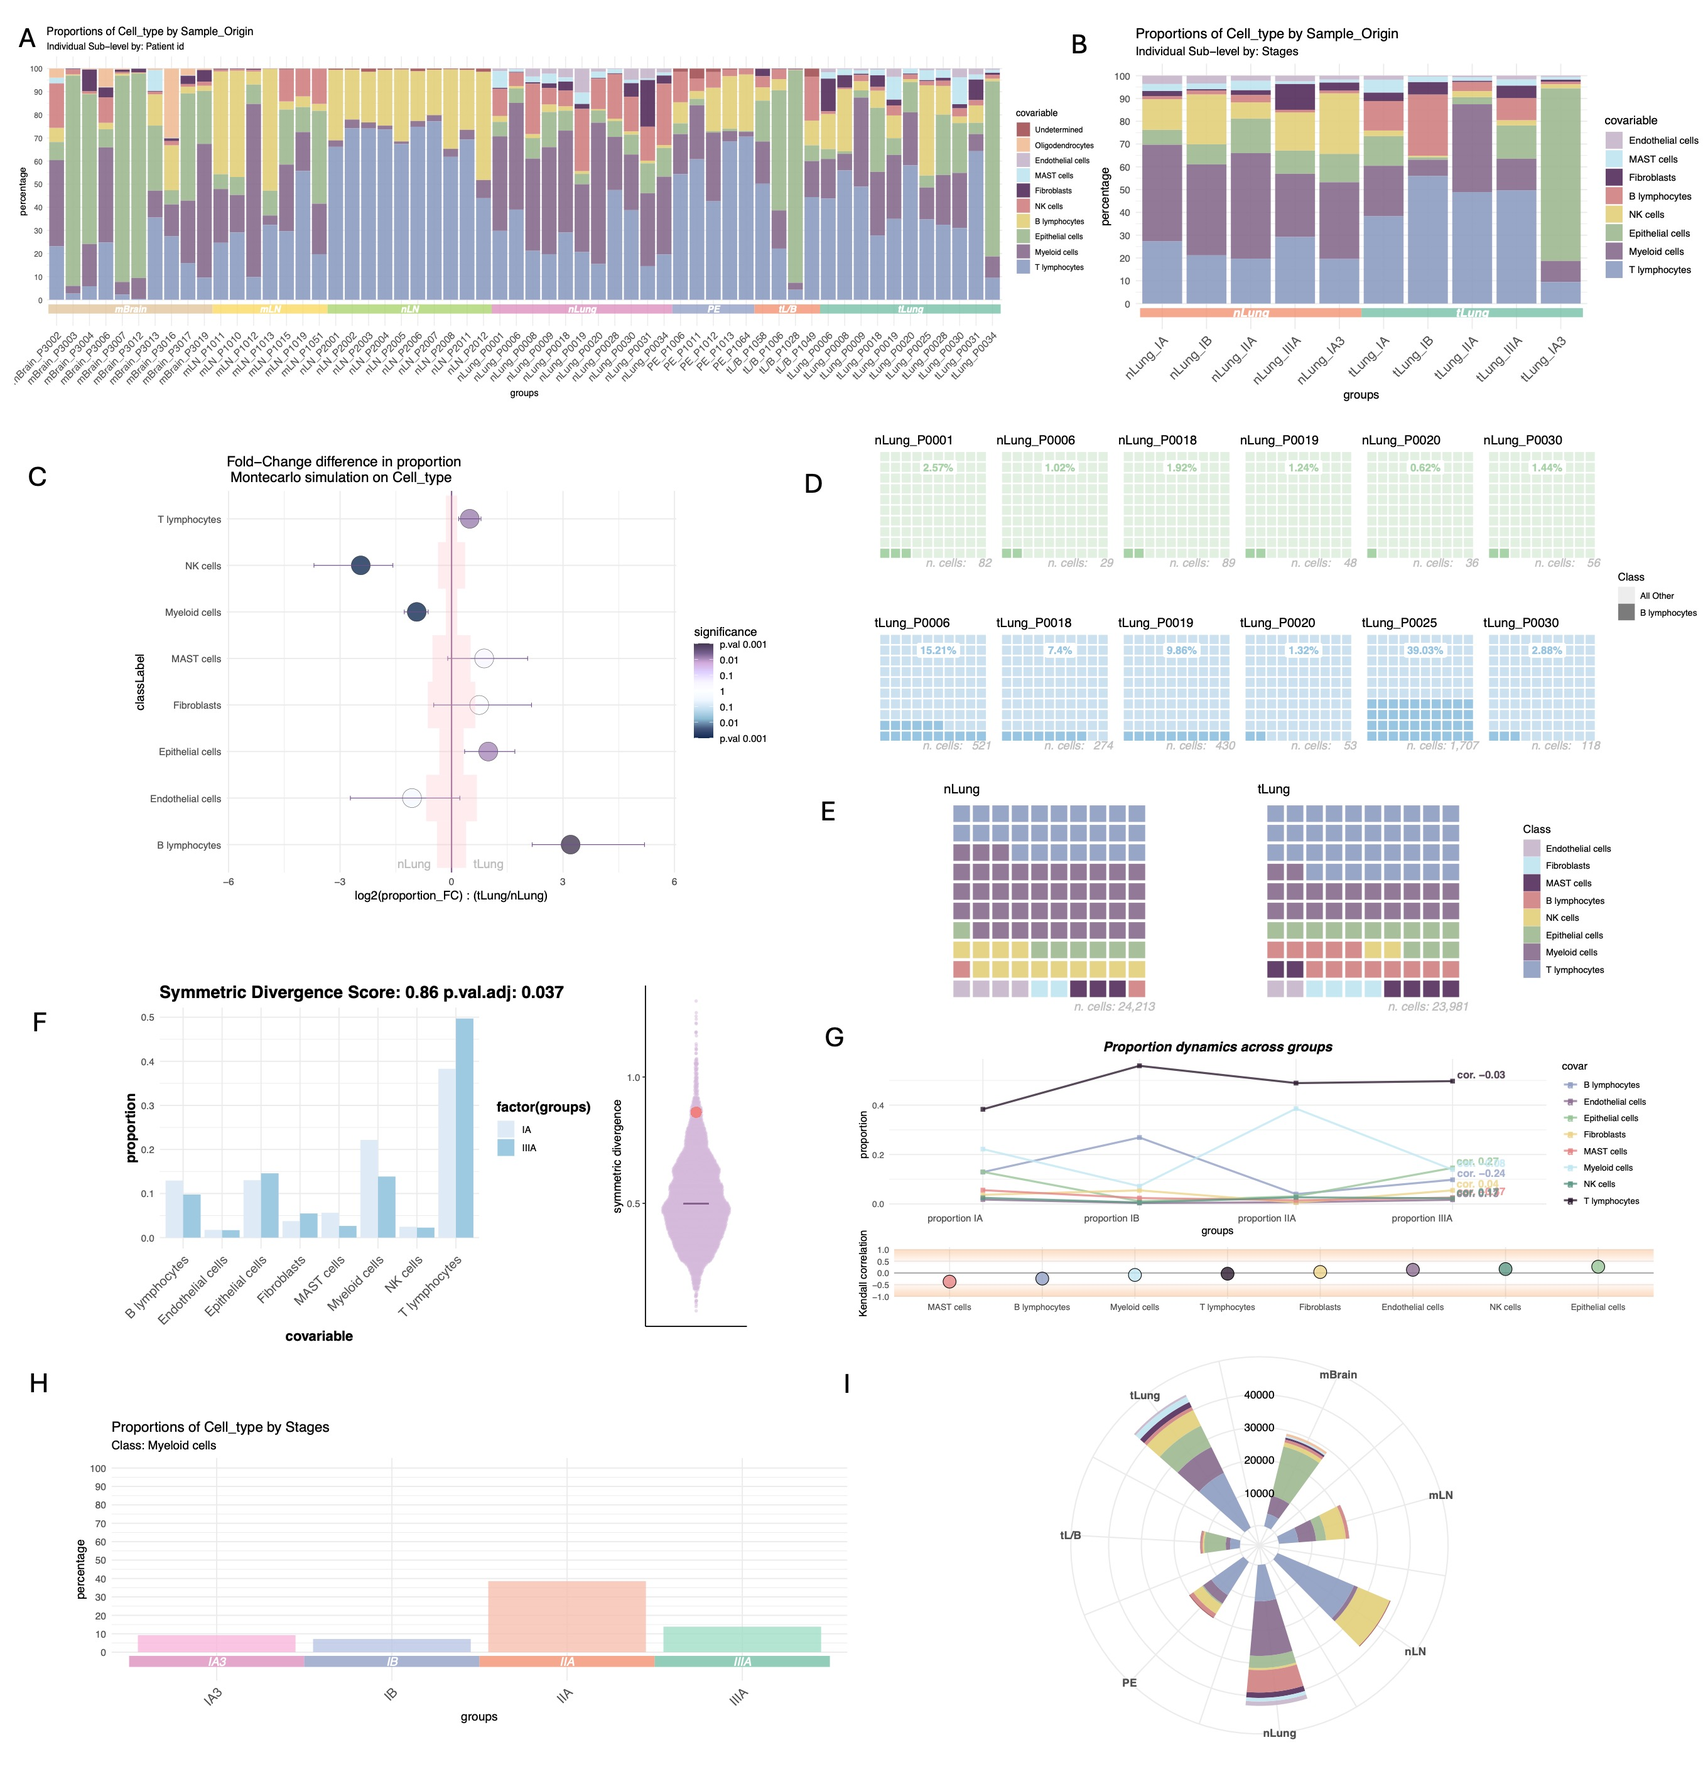
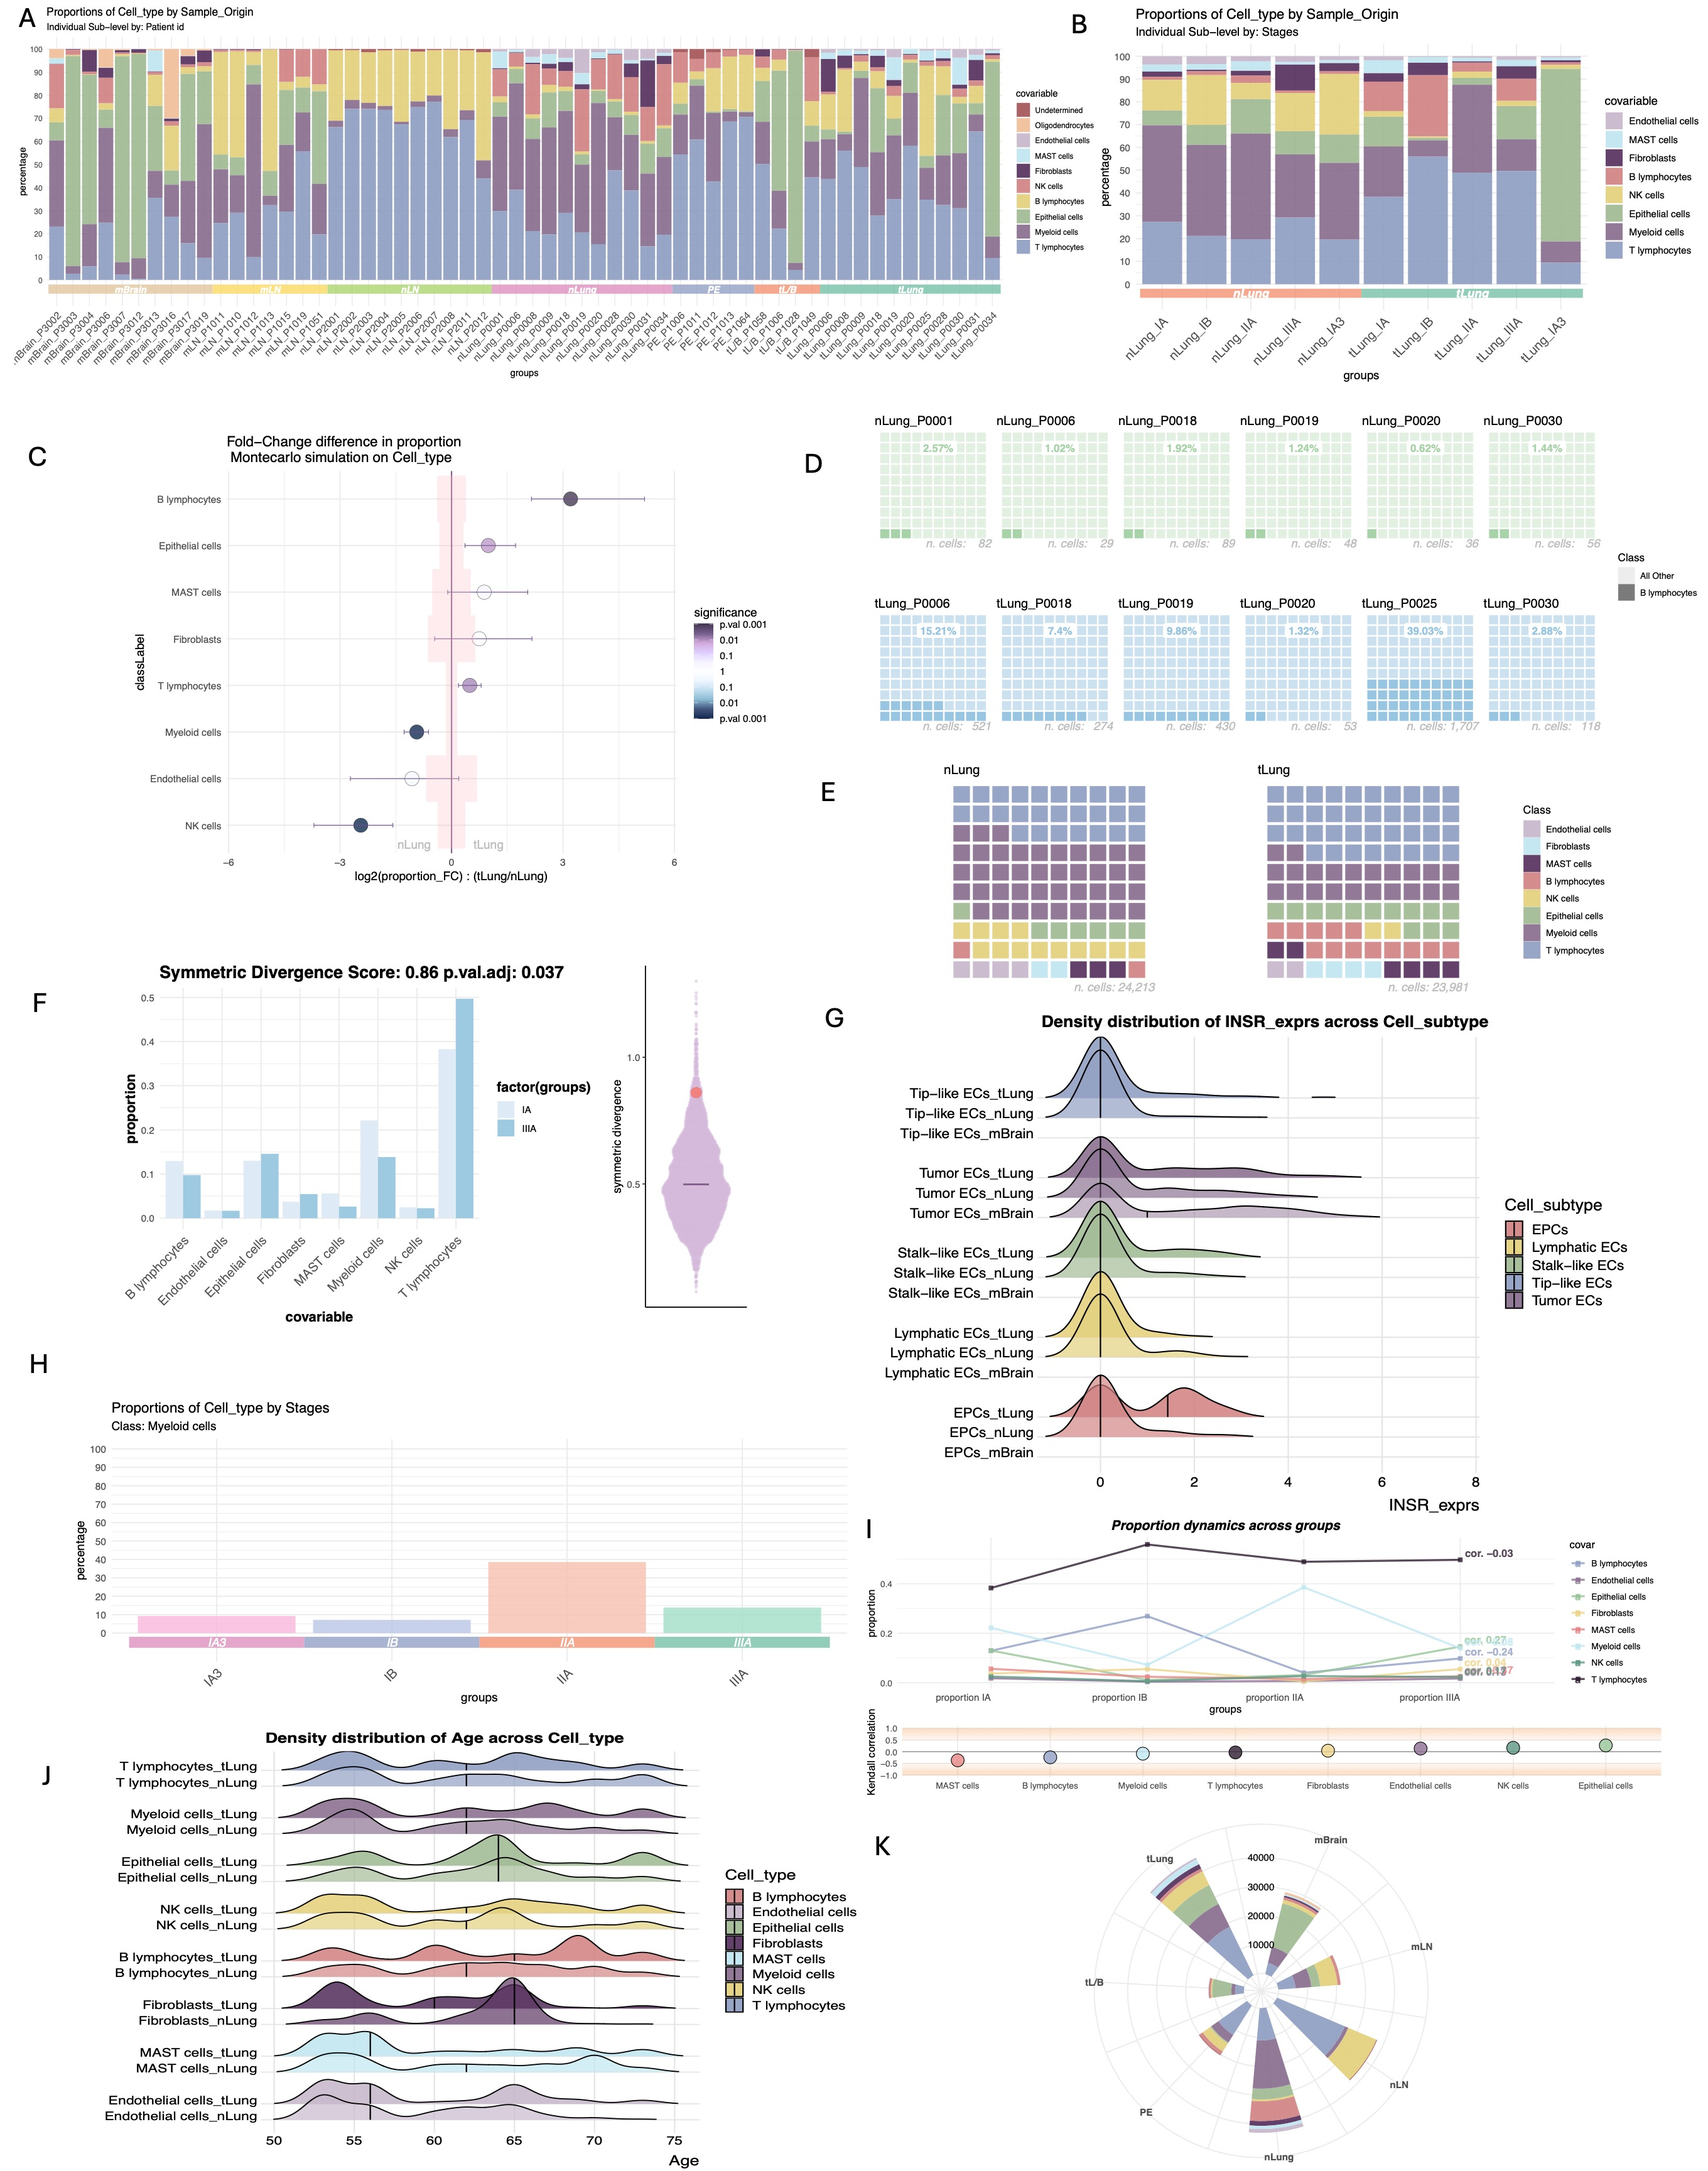
New major version 0.3. Added density plots for numerical values, including gene or feature expression from Seurat or SingleCellExperiment objects. Added new plots in the manual.

diff --git a/readme.md b/readme.md
@@ -21,7 +21,11 @@ A pre-print is available at [https://doi.org/10.1101/2024.05.23.595582], which i
 
 ### Updates:
 
-* (30 May 2024) Version: 0.2.0 - Added an option to use customized colors in waffle, bar, and polar plots (see example below).
+* (30 May 2024) Version: 0.2.0
+  - Added an option to use customized colors in waffle, bar, and polar plots (see [examples](#personalizing-the-colors)).
+* (12 July 2024) Version: 0.3.0
+  - Added density ridge plots using [ggridges](https://github.com/wilkelab/ggridges) to visualize numeric values per group and class, including gene/feature expression (see [examples](#density-ridge-plots)).
+  - Plot of differences in proportions now shows results in order of FC (special thanks @halaszlaszlo)
 
 # Introduction
 
@@ -31,7 +35,7 @@ Single cell sequencing unveils a treasure trove into the biological and molecula
 
 <figure>
 <img src="./images/main_diagram_lotOfCells.jpg" alt="LotOfCells diagram" />
-<figcaption><i><b>Diagram of plots and tests available in LotOfCells. A.</b> Barplots of proportions of cell types for all individual samples from different tissues, the tissue class is depicted in the colored boxes on the x-axis. <b>B.</b> Barplots showing the cell type composition of normal and tumor lung samples, each bar corresponds to a cancer stage. Samples from the same stage-condition are grouped together in the same bar. <b>C.</b> Montecarlo test for the difference in cell type population abundances between tumor and normal lung samples in stage IA. B lymphocyte population is significantly larger in tumor. <b>D.</b> Waffle plots showing B lymphocytes only for all independent patients. The number of total B lymphocytes is depicted in grey. Each square=1\%. <b>E.</b> Waffle plot showing IA stage for tumor and normal lung. All samples are pulled together by condition. <b>F.</b> Symmetric divergence score test between stages IA and IIIA from lung tumor. On the right a scatter violin plot showing the distribution of generated scores vs the observed value. <b>G.</b> Cell type proportion changes across cancer stages in lung tumor. Values of the Kendall Tau correlation coefficient per cell type are shown. <b>H.</b> Barplot of Myeloid cells proportions across cancer stages in lung tumor. <b>I.</b> Polar plot showing the raw number of cells per tissue. </i></figcaption>
+<figcaption><i><b>Diagram of plots and tests available in LotOfCells. A.</b> Barplots of proportions of cell types for all individual samples from different tissues, the tissue class is depicted in the colored boxes on the x-axis. <b>B.</b> Barplots showing the cell type composition of normal and tumor lung samples, each bar corresponds to a cancer stage. Samples from the same stage-condition are grouped together in the same bar. <b>C.</b> Montecarlo test for the difference in cell type population abundances between tumor and normal lung samples in stage IA. B lymphocyte population is significantly larger in tumor. <b>D.</b> Waffle plots showing B lymphocytes only for all independent patients. The number of total B lymphocytes is depicted in grey. Each square=1\%. <b>E.</b> Waffle plot showing IA stage for tumor and normal lung. All samples are pulled together by condition. <b>F.</b> Symmetric divergence score test between stages IA and IIIA from lung tumor. On the right a scatter violin plot showing the distribution of generated scores vs the observed value. <b>G.</b> Density plots showing expression of INSR gene in tumor and normal lung and brain metastasis endothelial subpopulations. Tumor ECs shows a distinct tail of high expression. <b>H.</b> Barplot of Myeloid cells proportions across cancer stages in lung tumor. <b>I.</b> Cell type proportion changes across cancer stages in lung tumor. Values of the Kendall Tau correlation coefficient per cell type are shown. <b>J.</b> Density plots of the age distribution across cell types. <b>K.</b> Polar plot showing the raw number of cells per tissue. </i></figcaption>
 </figure>
 
 # Manual
@@ -147,6 +151,49 @@ ggpubr::ggarrange(g.B, g.A, g.C, g.D, labels = c("A", "B", "C", "D"),
 <img src="./images/Figure2_LoC.jpeg" alt="LotOfCells waffle plots" />
 <figcaption><i> Example waffle plots. </i></figcaption>
 </figure>
+
+### Density ridge plots
+
+To visualize numeric values (including gene/feature expression) over groups and sub-categories, we can make use of density ridge plots to observe its data distribution. We have to select the variable to use in `numerical_variable`.
+
+```{r}
+# # Test of density charts:
+# simulate the number of RNA features detected in each cell:
+meta.data <- rbind.data.frame(meta.data %>% dplyr::filter(condition == "mut") %>% 
+                                mutate(n_features_RNA = abs(rnorm(nrow(.), mean=c(3000, 3500), sd=800))),
+                              meta.data %>% dplyr::filter(condition == "wt") %>% 
+                                mutate(n_features_RNA = abs(rnorm(nrow(.), mean=c(2500,1500), sd=400))))
+
+# All cells together for every group
+g.A <- density_chart(scObject = meta.data, main_variable = "condition", subtype_variable = "covariable", 
+                    numerical_variable = "n_features_RNA")
+# Density chart for each individual sample:
+g.B <- density_chart(scObject = meta.data, main_variable = "condition", subtype_variable = "covariable",  
+                    numerical_variable = "n_features_RNA", sample_id = "sample")
+
+ggpubr::ggarrange(g.A, g.B, labels = c("A", "B"),
+                  ncol=2, nrow=1, common.legend = F)
+```
+
+<figure>
+<img src="./images/Figure_3.1.1.jpeg" alt="LotOfCells density plots" />
+<figcaption><i> Example density plots. </i></figcaption>
+</figure>
+
+If `scObject` is of class `Seurat` or `SingleCellExperiment`, we can specify a gene/feature name directly in `subtype_variable` to display the counts per class and sub-level. Here we show an example using human pancreas single-cell data (Baron M et al. (2017) using the scRNAseq R package), the gene SST is a marker of pancreatic $\delta cells:
+
+```{r eval=FALSE}
+# # Test of density charts:
+density_chart(scObject = sc_pancreas_human, main_variable = "donor", subtype_variable = "cell.type", 
+              numerical_variable = "SST")
+
+```
+
+<figure>
+<img src="./images/Figure_3.1.2.jpeg" alt="LotOfCells density plots of gene expression" />
+<figcaption><i> Example density plots showing expression of SST in delta cells. </i></figcaption>
+</figure>
+
 
 ### Personalizing the colors:
 
